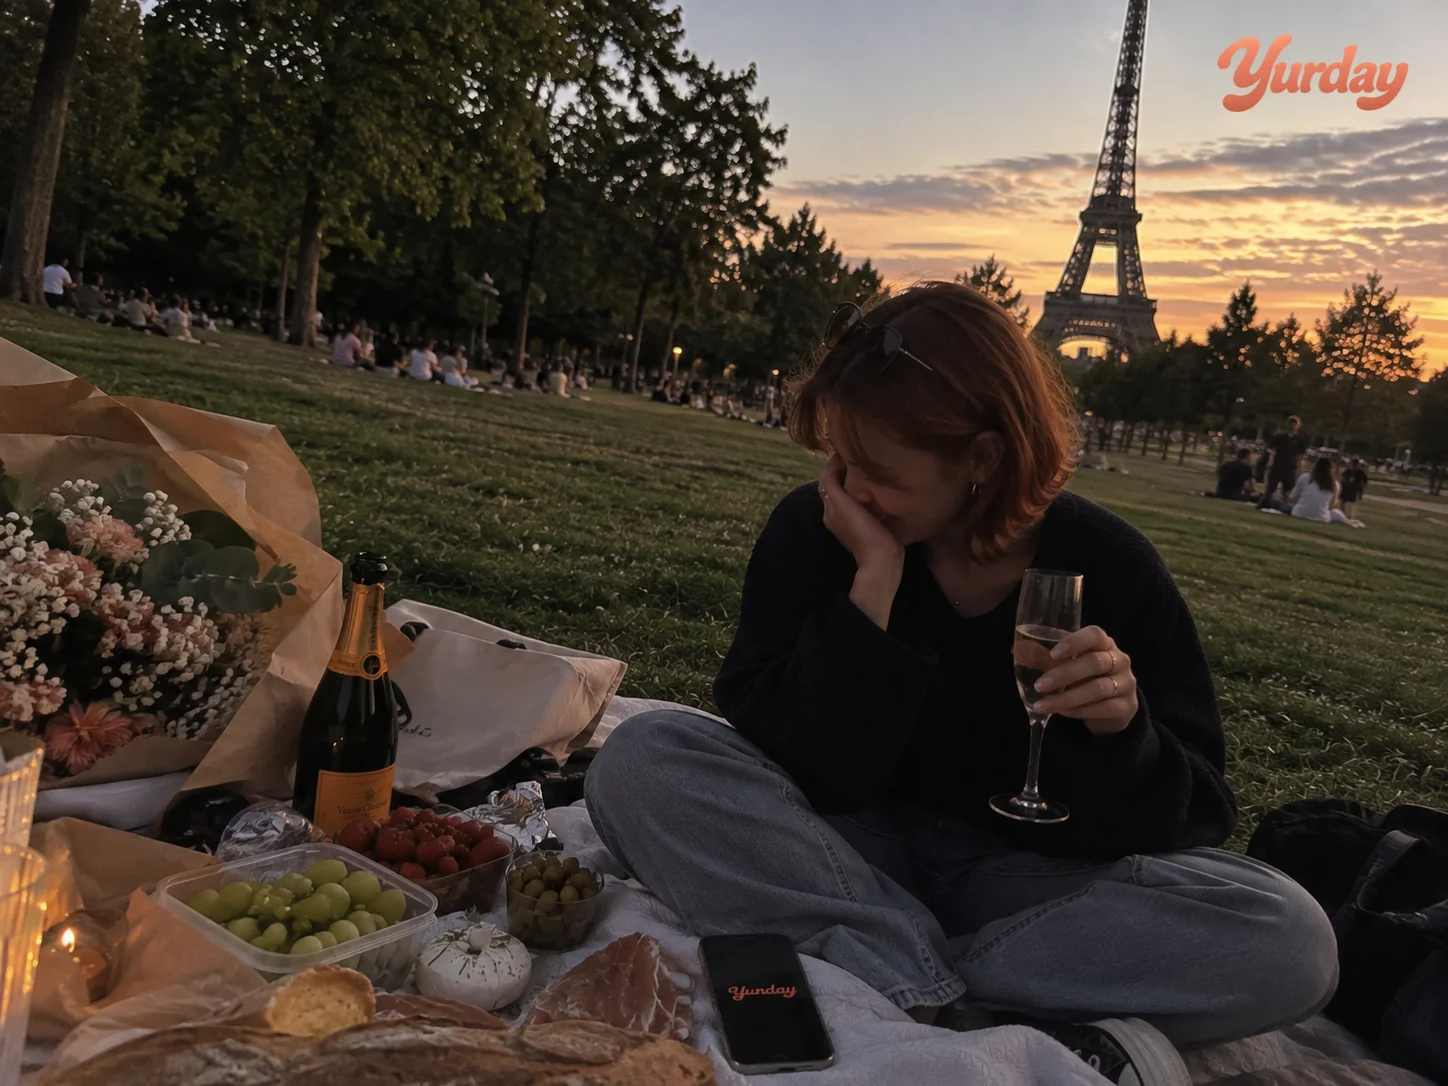
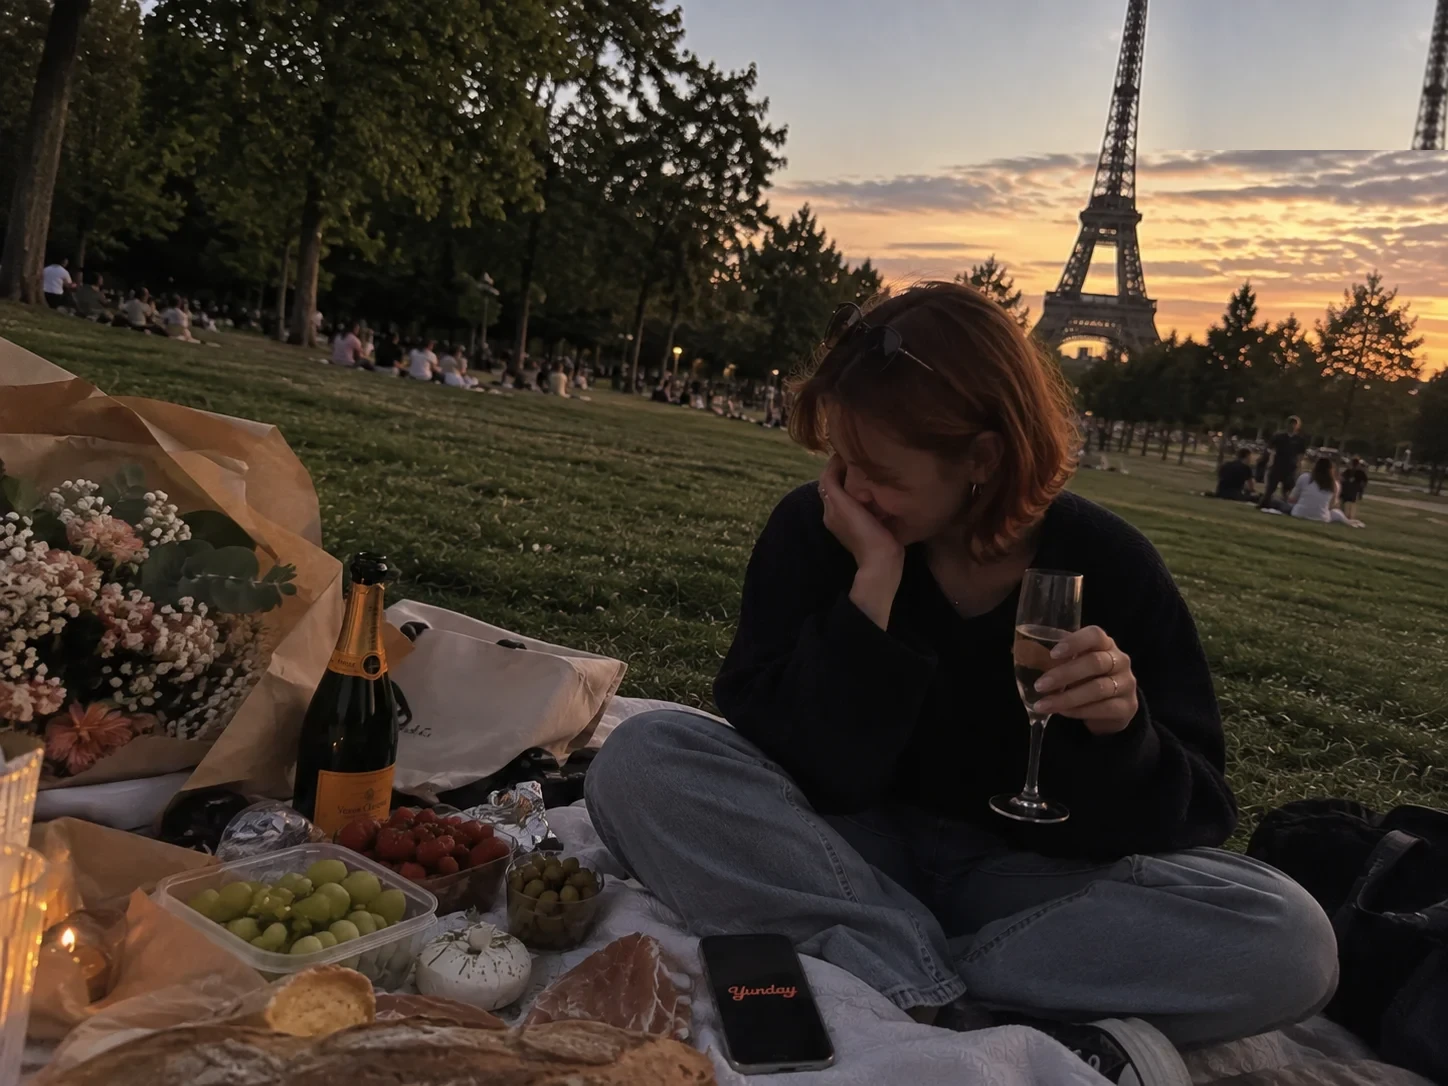
Remove white gap in Moments, bleed hero photo to the right edge
- Moments: the photo grid now touches the navy head band directly
  above it (removed the 48px top margin that left a white strip)
- Hero: the split photo now also bleeds to the true right edge of
  the viewport instead of stopping at the container's padding; the
  text column keeps its own left inset so it still lines up with the
  rest of the page
- Removed the "Yurday" watermark baked into the hero picnic photo
  (patched with a stretched sky sample) since the wider crop was
  bringing it back into frame; it had briefly reappeared with the
  new full-bleed layout

Changed region(s): [[0.808, 0.0, 1.0, 0.1519]]

diff --git a/src/components/ui/HeroSection.css b/src/components/ui/HeroSection.css
@@ -71,18 +71,21 @@
    promo au-dessus et la section suivante en dessous) : c'est le texte, pas
    la section, qui porte le padding vertical. */
 .hero.hero--split {
-  padding: 0 28px;
+  padding: 0;
 }
 .hero.hero--split .hero-inner {
   display: grid;
-  grid-template-columns: 1.05fr 0.95fr;
-  gap: 56px;
+  grid-template-columns: minmax(0, 560px) 1fr;
+  gap: 48px;
   align-items: stretch;
   text-align: left;
-  max-width: 1160px;
+  max-width: none;
+  margin: 0;
 }
 .hero.hero--split .hero-copy {
-  padding: 90px 0;
+  /* Aligné avec la colonne des autres sections (max-width 1120px + 28px),
+     mais la photo, elle, va jusqu'au bord droit de l'écran. */
+  padding: 90px 0 90px max(28px, calc((100vw - 1120px) / 2 + 28px));
   display: flex;
   flex-direction: column;
   justify-content: center;
@@ -101,7 +104,7 @@
   width: 100%;
   height: 100%;
   object-fit: cover;
-  object-position: 62% 85%;
+  object-position: 68% 55%;
   display: block;
 }
 

diff --git a/src/components/home/Moments.css b/src/components/home/Moments.css
@@ -14,7 +14,7 @@
   display: grid;
   grid-template-columns: 1fr 1fr;
   gap: 0;
-  margin: 48px 0 0;
+  margin: 0;
 }
 .moment-chapter {
   display: flex;
@@ -54,6 +54,6 @@
 }
 
 @media (max-width: 780px) {
-  .moment-chapters { grid-template-columns: 1fr; margin-top: 36px; }
+  .moment-chapters { grid-template-columns: 1fr; }
   .moment-cta-wrap { margin-top: 36px; }
 }
